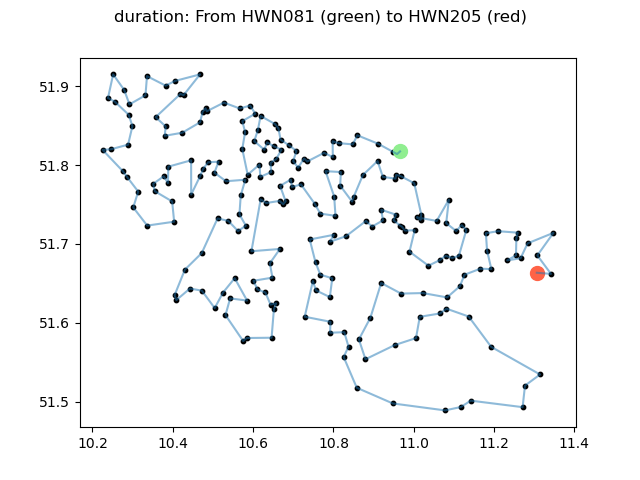
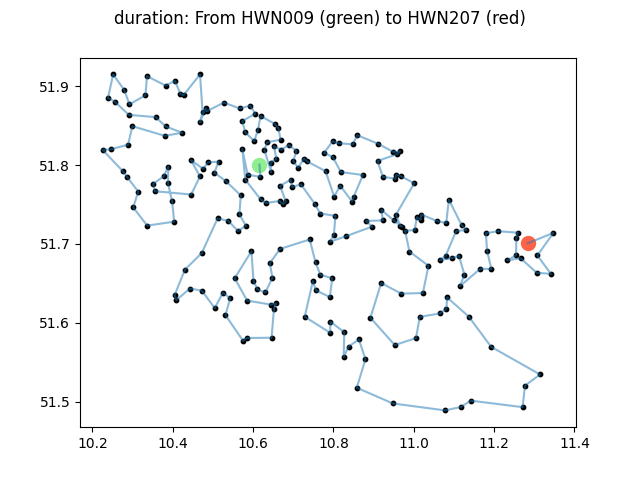
changes

diff --git a/main_lui.py b/main_lui.py
@@ -5,6 +5,12 @@ import time
 from tour_eval import *
 import matplotlib.pyplot as plt
 
+### draw a specific tour
+"""tour =  [9, 11, 136, 19, 168, 156, 18, 14, 20, 21, 13, 15, 17, 174, 40, 41, 42, 56, 52, 53, 60, 54, 63, 62, 64, 69, 66, 65, 74, 76, 78, 77, 79, 59, 80, 81, 82, 84, 83, 33, 32, 31, 35, 34, 37, 87, 89, 88, 38, 39, 36, 29, 85, 27, 28, 26, 25, 24, 16, 23, 10, 22, 8, 6, 7, 30, 5, 4, 3, 2, 1, 169, 170, 122, 121, 120, 118, 117, 119, 116, 108, 114, 91, 111, 110, 109, 171, 106, 142, 102, 104, 103, 107, 112, 125, 124, 126, 113, 105, 130, 129, 131, 141, 139, 140, 143, 144, 147, 145, 127, 128, 137, 138, 146, 134, 132, 149, 133, 221, 135, 217, 12, 75, 148, 123, 155, 154, 153, 150, 101, 151, 152, 115, 43, 158, 161, 220, 192, 166, 167, 90, 165, 164, 162, 159, 157, 163, 160, 58, 45, 206, 46, 44, 49, 50, 51, 97, 48, 47, 96, 95, 93, 92, 99, 98, 218, 100, 198, 214, 213, 212, 210, 209, 222, 208, 219, 193, 176, 194, 175, 211, 215, 216, 94, 55, 172, 173, 191, 57, 67, 68, 70, 72, 178, 71, 73, 187, 188, 185, 183, 186, 189, 190, 184, 196, 195, 177, 179, 197, 182, 61, 181, 199, 180, 204, 203, 200, 205, 86, 202, 201, 207]
+
+drawNetworkFromTour(tour, "duration")
+exit()"""
+
 ### use data to find common edges and safe it
 """with open('2opt830.json') as f:
     data = json.load(f)
@@ -40,26 +46,48 @@ pointids = list(points.keys())
 dist, dur = getDistAndDur(pointids)
 
 solutions = []
-
-# example for defined start and endpoint and randomly shuffled points between
-"""tourpoints = [61,181,199,180,207,201,86,205,202,200,204,203,182,197,179,196,184,190,189,186,183,185,187,73,70,72,178,71,188,74,76,78,77,79,87,59,80,81,82,84,83,33,32,31,34,35,29,85,27,28,26,25,7,30,5,4,3,2,8,6,16,24,23,10,22,13,14,20,21,15,17,174,36,37,38,39,89,88,62,54,60,63,64,65,66,69,67,68,57,191,173,172,55,94,216,215,211,175,194,176,177,195,193,219,208,222,209,210,212,213,214,198,100,218,98,99,92,95,93,96,47,48,97,51,50,49,52,53,56,42,41,40,44,46,206,45,163,160,162,58,164,165,90,167,166,192,220,161,159,158,43,115,152,151,101,150,153,154,155,123,157,148,75,156,18,11,9,168,136,19,1,169,170,122,121,120,118,117,116,119,124,126,125,112,91,114,108,111,110,109,171,106,142,102,104,103,107,113,105,130,129,131,141,139,140,143,144,147,138,137,128,145,127,132,146,134,149,133,221,135,217,12]
-start = 61
-finish = 12
-
-n = 1000
-
-for i in range(n):
-    print(f'{round(i / n, 1)} %')
-
-    between = tourpoints[1:221]
-    random.shuffle(between)
-    
-    tour = [start] + between + [finish]
-    """
-
-# ...or n randomized tours without set start and endpoint
 n = 1000000
 last = 0
+
+# example for defined start and endpoint and randomly shuffled points between
+start = 9
+finish = 120
+for i in range(n):
+    number = (int(round(i / n, 3) * 100))
+    if (number % 10 == 0) & (number != last):
+        last = number
+        print(f'{number} %')
+
+    between = [i for i in range(1, 223)]
+    #between = [81, 120, 121,122, 169, 170, 1, 19, 136, 9, 11, 22, 10, 23, 24, 16, 6, 8, 2, 3, 4, 5, 30, 7, 25, 26, 28, 27, 85, 29, 35, 34, 32, 31, 33, 83, 84, 82, 80, 81, 120]
+
+    random.shuffle(between)
+    between.remove(start)
+    #between.remove(finish)
+    
+    #tour = [start] + between + [finish]
+    tour = [start] + between
+
+    # 2 opt algorithm
+
+    tour = algorithm("twoOpt", tour, dur)
+
+    start = tour[0]
+    finish = tour[-1]
+
+    if total_duration(tour, dur) < 171:
+        solution = {
+            'start': start,
+            'finish': finish,
+            'distance': total_distance(tour, dist),
+            'duration': total_duration(tour, dur),
+            'tour': tour
+        }
+        print(solution)
+        solutions.append(solution)
+
+# ...or n randomized tours without set start and endpoint
+"""
 for i in range(n):
     tour = [i for i in range(1, 223)]
 
@@ -77,7 +105,7 @@ for i in range(n):
     start = tour[0]
     finish = tour[-1]
 
-    if total_distance(tour, dur) < 190:
+    if total_distance(tour, dur) < 200:
         solution = {
             'start': start,
             'finish': finish,
@@ -85,15 +113,15 @@ for i in range(n):
             'duration': total_duration(tour, dur),
             'tour': tour
         }
-        solutions.append(solution)
+        solutions.append(solution)"""
 
 print(solutions)
 
-with open('2opt830_dur.json', 'w') as f:
-    json.dump(solutions, f)
+"""with open('2opt830_dur.json', 'w') as f:
+    json.dump(solutions, f)"""
 
 # tourEval('2opt.json')
-print("--- %s hours ---" % ((time.time() - start_time) / 3600))
+print("--- %s hours ---" % ((time.time() - start_time) / 60))
 #distributionPlot('2opt830_2.json')
 
 # drawNetwork('2opt.json', "distance")

diff --git a/call_tour_eval.py b/call_tour_eval.py
@@ -17,7 +17,7 @@ duplicateTours(data)
 tourMin(data, "duration")
 
 #draws network
-#drawNetwork(data, "duration")
+drawNetwork(data, "duration")
 
 #analyzes which edges are most common
 analyzeEdges(data, 50)
